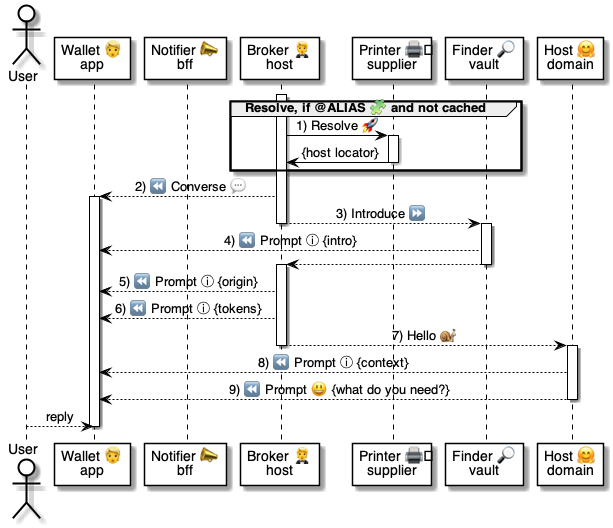
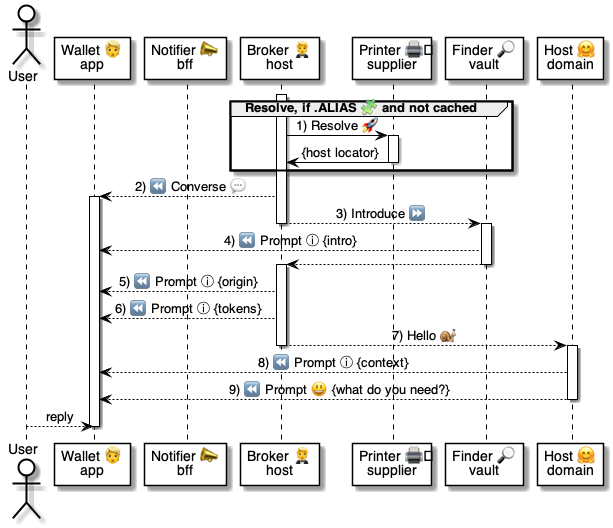
.

Changed region(s): [[0.4959, 0.1818, 0.8679, 0.3333]]

diff --git a/4 ⚙ Solution/20 🧑🦰 UI/3 🤵 Brokers/🤵🅰 Broker methods/2 🤵🅰 Locators/🧑🦰🐌🤵 Assess.md b/4 ⚙ Solution/20 🧑🦰 UI/3 🤵 Brokers/🤵🅰 Broker methods/2 🤵🅰 Locators/🧑🦰🐌🤵 Assess.md
@@ -1,13 +1,12 @@
 # 🧑🦰🐌🤵 Assess @ Broker
 
-> Used in:
-> <br/>• [🧑🦰👉🤗 Scan host QR](<../../../1 🧑🦰 Wallets/🧑🦰💬 Wallet in App 🏠/🧑🦰🔆🤗 Tap host locator.md>)
-> <br/>• [🧑🦰👉🤗 Scan printer QR](<../../../1 🧑🦰 Wallets/🧑🦰💬 Wallet in App 🏠/🧑🦰🔆🖨 Tap alias locator.md>)
+* Part of [🤵⏩🧑🦰 Assess 🔆 flow](<../../🤵⏩ Broker flows/🤵⏩🧑🦰 Assess 🔆.md>):
+    * precedes [`Converse@Notifier`](<../../../2 📣 Notifiers/📣🅰 Notifier methods/2 💬 Chats/1 🤵🐌📣 Converse.md>)
 
 
-* Parse the [Locator 🔆](<../../../../25 🔆 Locators/1 🔆 Locators/🔆 Locator.md>) in the [Broker 🤵 domain](<../../🤵🤲 Broker helper.md>).
-    * If the [Locator 🔆](<../../../../25 🔆 Locators/1 🔆 Locators/🔆 Locator.md>) is an [`nlweb.dom/ALIAS 🧩`](<../../../../45 🤲 Helper domains/Printers 🖨/🖨🧩 Printer schemas/🧩 ALIAS.md>) 
-    * then it needs to be be translated 
+* Parses the [Locator 🔆](<../../../../25 🔆 Locators/1 🔆 Locators/🔆 Locator.md>) in the [Broker 🤵 domain](<../../🤵🤲 Broker helper.md>).
+    * If the [Locator 🔆](<../../../../25 🔆 Locators/1 🔆 Locators/🔆 Locator.md>) is [`.ALIAS 🧩`](<../../../../45 🤲 Helper domains/Printers 🖨/🖨🧩 Printer schemas/🧩 ALIAS.md>) 
+    * then it needs to be be resolved by a [Printer 🖨 helper domain](<../../../../45 🤲 Helper domains/Printers 🖨/🖨🤲 Printer helper.md>)
     * into the final [Host 🤗 domain](<../../../../41 🎭 Domain Roles/Hosts 🤗/🤗🎭 Host role.md>).
 
 
@@ -22,7 +21,8 @@ Header:
     Subject: Assess@Broker
     
 Body:
-    Locator: @ALIAS,any-printer.dom,7V8KD3G
+    Locator: .ALIAS,any-printer.dom,7V8KD3G
+    Reference: <reference-uuid>
 ```
 
 |Object|Property|Type|Description
@@ -30,7 +30,8 @@ Body:
 |Header|`From`|uuid | [Wallet 🧑🦰](<../../../1 🧑🦰 Wallets/🧑🦰🛠 Wallet app.md>)  from [`Onboard@Notifier`](<../../../2 📣 Notifiers/📣🅰 Notifier methods/1 🤵 Onboard/1 🧑🦰🚀📣 Onboard.md>)
 ||`To`|string| [Broker 🤵](<../../🤵🤲 Broker helper.md>) from [`Onboard@Notifier`](<../../../2 📣 Notifiers/📣🅰 Notifier methods/1 🤵 Onboard/1 🧑🦰🚀📣 Onboard.md>)
 ||`Subject`|string|`Assess@Broker`
-|Body  |`Locator` |string| [Locator 🔆](<../../../../25 🔆 Locators/1 🔆 Locators/🔆 Locator.md>) of types: <br/>- [`.HOST` 🧩](<../../../../41 🎭 Domain Roles/Hosts 🤗/🤗🧩 Host schemas/🧩 HOST.md>) <br/>- [`.ALIAS` 🧩](<../../../../45 🤲 Helper domains/Printers 🖨/🖨🧩 Printer schemas/🧩 ALIAS.md>)
+|Body  |`Locator` |string| [Locator 🔆](<../../../../25 🔆 Locators/1 🔆 Locators/🔆 Locator.md>) of types [`.HOST`](<../../../../41 🎭 Domain Roles/Hosts 🤗/🤗🧩 Host schemas/🧩 HOST.md>) [`.ALIAS`](<../../../../45 🤲 Helper domains/Printers 🖨/🖨🧩 Printer schemas/🧩 ALIAS.md>)
+|| `Reference` | uuid | Reference for [`Converse@Notifier`](<../../../2 📣 Notifiers/📣🅰 Notifier methods/2 💬 Chats/1 🤵🐌📣 Converse.md>)
 |
 
 
@@ -38,7 +39,7 @@ Body:
 
 ## Logic
 
-![alt text](<.📎 Assets/⚙ Assess.png>)
+![alt text](<.📎 Assets/⚙ Assess locator.png>)
 
 
 | # | Call | Notes

diff --git a/4 ⚙ Solution/20 🧑🦰 UI/3 🤵 Brokers/🤵🅰 Broker methods/3 🤵🅰 Chats 💬/🧑🦰🚀🤵 Pop.md b/4 ⚙ Solution/20 🧑🦰 UI/3 🤵 Brokers/🤵🅰 Broker methods/3 🤵🅰 Chats 💬/🧑🦰🚀🤵 Pop.md
@@ -1,6 +1,8 @@
-# 🧑🦰🐌🤵 Help @ Broker
+# 🧑🦰🚀🤵 Pop @ Broker
 
-> Asks the [Broker 🤵 domain](<../../🤵🤲 Broker helper.md>) to join a [Chat 💬](<../../../../35 💬 Chats/💬 Chats/💬 Chat.md>) to help.
+* Opens a new [Chat 💬](<../../../../35 💬 Chats/💬 Chats/💬 Chat.md>) 
+    * with the [Broker 🤵 domain](<../../🤵🤲 Broker helper.md>)
+    * with a given context
 
 > Used in:
 > <br/> • [🧑🦰👉🤵 Host Home](<../../../1 🧑🦰 Wallets/🧑🦰💬 Wallet in Chats 💬/🧑🦰💬🤵 Host home.md>) flow
@@ -26,21 +28,19 @@
 Header:
     From: <wallet-uuid>
     To: any-broker.dom
-    Subject: Join@Broker
+    Subject: Pop@Broker
 
 Body:
-    ChatID: <chat-uuid>
-    Host: any-host.dom
-    TokenID: <token-uuid>
-    Issuer: any-issuer.dom
-    BindID: <bind-uuid>
-    Vault: any-vault.dom
+    Context: TOKEN
+    Key: <token-uuid>
 ```
 
 | Object | Property | Type |Description
 |-|-|-|-
 | Header | `From`    | string | [Wallet 🧑🦰](<../../../1 🧑🦰 Wallets/🧑🦰🛠 Wallet app.md>)  from [`Onboard@Notifier`](<../../../2 📣 Notifiers/📣🅰 Notifier methods/1 🤵 Onboard/1 🧑🦰🚀📣 Onboard.md>)
 || `To`      | string | [Broker 🤵](<../../🤵🤲 Broker helper.md>) from [`Onboard@Notifier`](<../../../2 📣 Notifiers/📣🅰 Notifier methods/1 🤵 Onboard/1 🧑🦰🚀📣 Onboard.md>)
-|| `Subject` | string | `Join@Broker`
-| Body | `ChatID`  | uuid   | [Chat 💬](<../../../../35 💬 Chats/💬 Chats/💬 Chat.md>)  from [`Converse@Notifier`](<../../../2 📣 Notifiers/📣🅰 Notifier methods/2 💬 Chats/1 🤵🐌📣 Converse.md>)
+|| `Subject` | string | `Pop@Broker`
+| Body | `Context`  | 
+|       | `Key` | uuid   |
+ [Chat 💬](<../../../../35 💬 Chats/💬 Chats/💬 Chat.md>)  from [`Converse@Notifier`](<../../../2 📣 Notifiers/📣🅰 Notifier methods/2 💬 Chats/1 🤵🐌📣 Converse.md>)
 |

diff --git a/4 ⚙ Solution/20 🧑🦰 UI/2 📣 Notifiers/📣🅰 Notifier methods/2 💬 Chats/1 🤵🐌📣 Converse.md b/4 ⚙ Solution/20 🧑🦰 UI/2 📣 Notifiers/📣🅰 Notifier methods/2 💬 Chats/1 🤵🐌📣 Converse.md
@@ -14,6 +14,7 @@ Header:
     
 Body:
     WalletID: <wallet-uuid>
+    Reference: <reference-uuid>
     ChatID: <chat-uuid>
     PrivateKey: <private-key>
     Host: another-domain.com
@@ -28,6 +29,7 @@ Body:
 ||`To`|string| [Notifier 📣](<../../📣👥 Notifier domain.md>) from [`Onboard@Broker`](<../../../3 🤵 Brokers/🤵🅰 Broker methods/1 🤵🅰 Wallets 🧑🦰/📣🚀🤵 Onboard.md>)
 ||`Subject`|string|`Converse@Notifier`
 |Body  |`WalletID` |uuid  | [Wallet 🧑🦰](<../../../1 🧑🦰 Wallets/🧑🦰🛠 Wallet app.md>) ID from [`Assess@Broker`](<../../../3 🤵 Brokers/🤵🅰 Broker methods/2 🤵🅰 Locators/🧑🦰🐌🤵 Assess.md>)
+|       | `Reference`| uuid | Reference from [`Assess@Broker`](<../../../3 🤵 Brokers/🤵🅰 Broker methods/2 🤵🅰 Locators/🧑🦰🐌🤵 Assess.md>)
 |      |`ChatID`   |uuid  | New [Chat 💬](<../../../../35 💬 Chats/💬 Chats/💬 Chat.md>) ID on the [Broker 🤵](<../../../3 🤵 Brokers/🤵🤲 Broker helper.md>)
 |      |`Host`     |string| [Host 🤗 domain](<../../../../41 🎭 Domain Roles/Hosts 🤗/🤗🎭 Host role.md>) name
 |      |`Name`     |string| Name from [`Translate@Graph`](<../../../../45 🤲 Helper domains/Graphs 🕸/🕸🅰 Graph methods/👥🚀🕸 Translate.md>)

diff --git a/4 ⚙ Solution/41 🎭 Domain Roles/Hosts 🤗/🤗🅰 Host methods/🧑🦰🚀🤗 Prompted.md b/4 ⚙ Solution/41 🎭 Domain Roles/Hosts 🤗/🤗🅰 Host methods/🧑🦰🚀🤗 Prompted.md
@@ -51,7 +51,7 @@ Details: |                          # Optional
 Options:                            # Optional
     - ID: 1                     
       Translation: Personal     
-      Locator: @HOST,any-host.dom,7V8KD3G
+      Locator: .HOST,any-host.dom,7V8KD3G
 ```
 
 |Property|Type|Description
